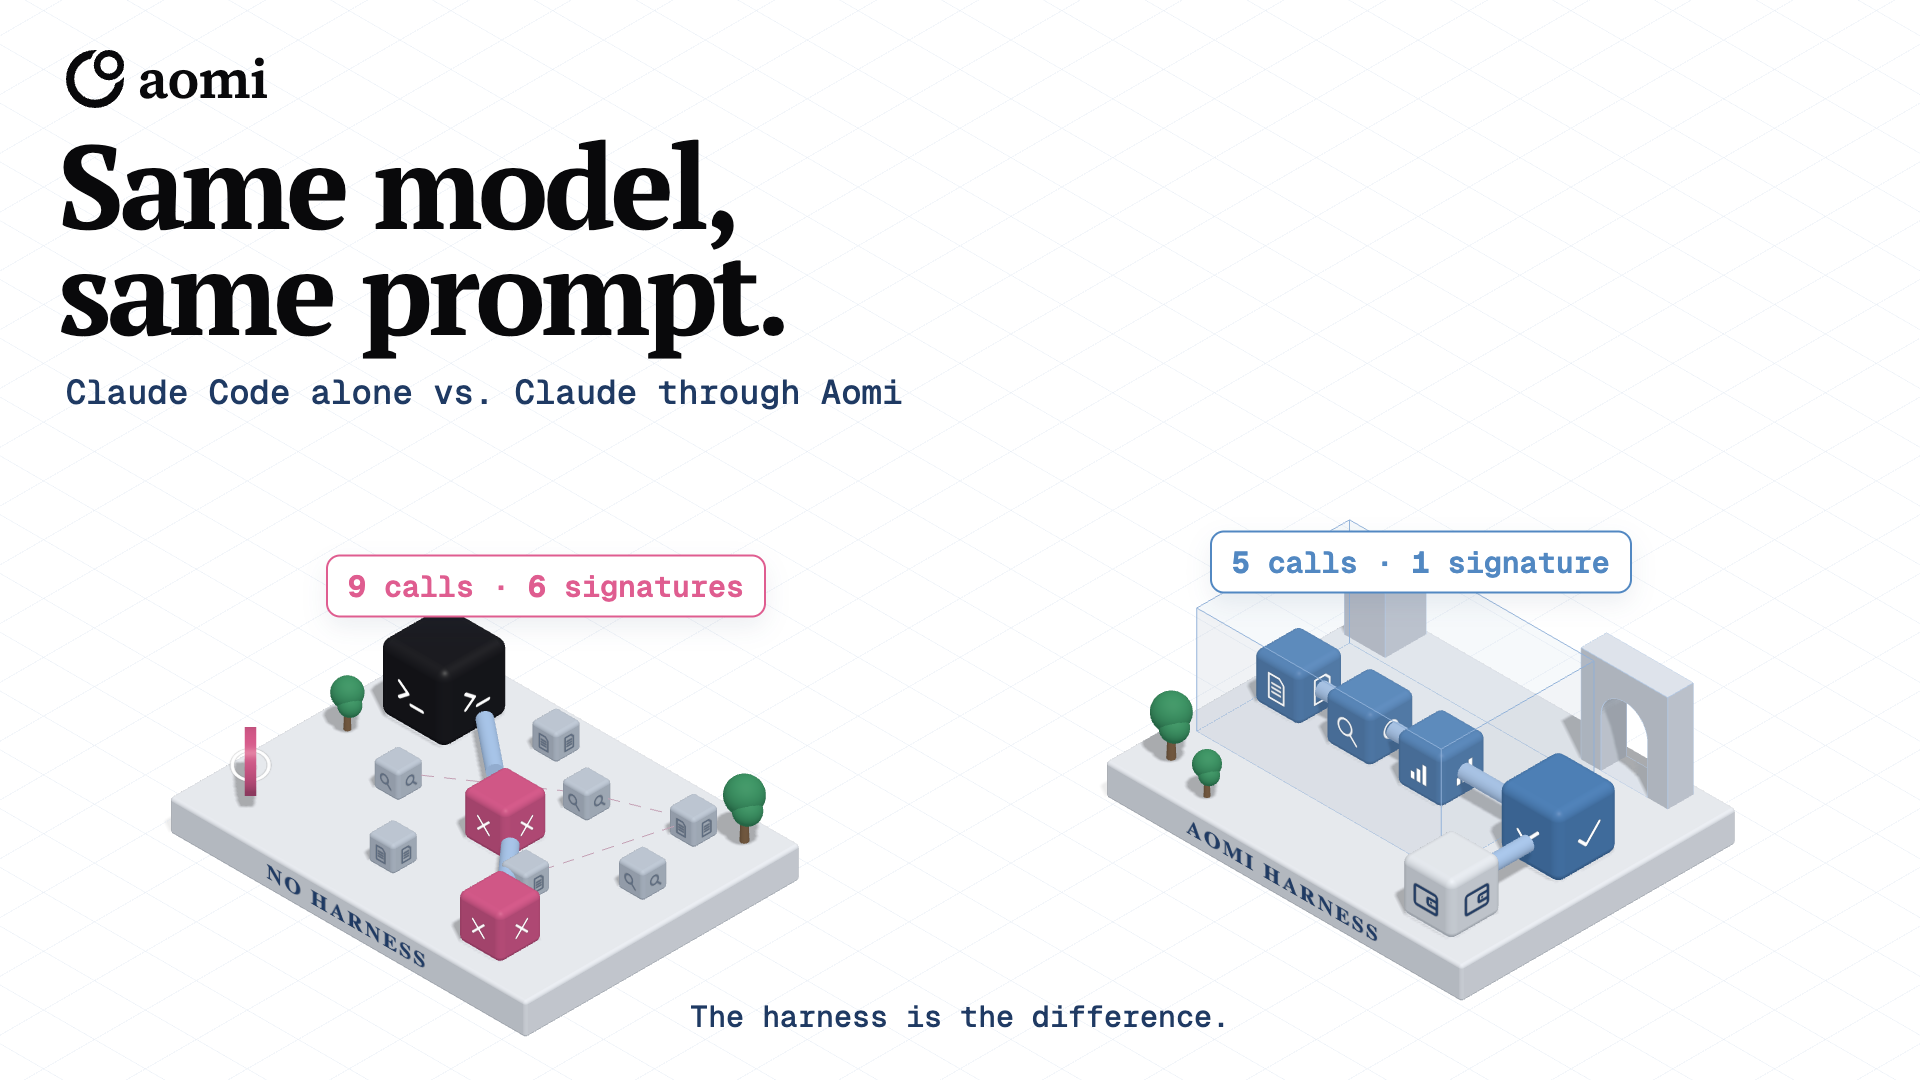
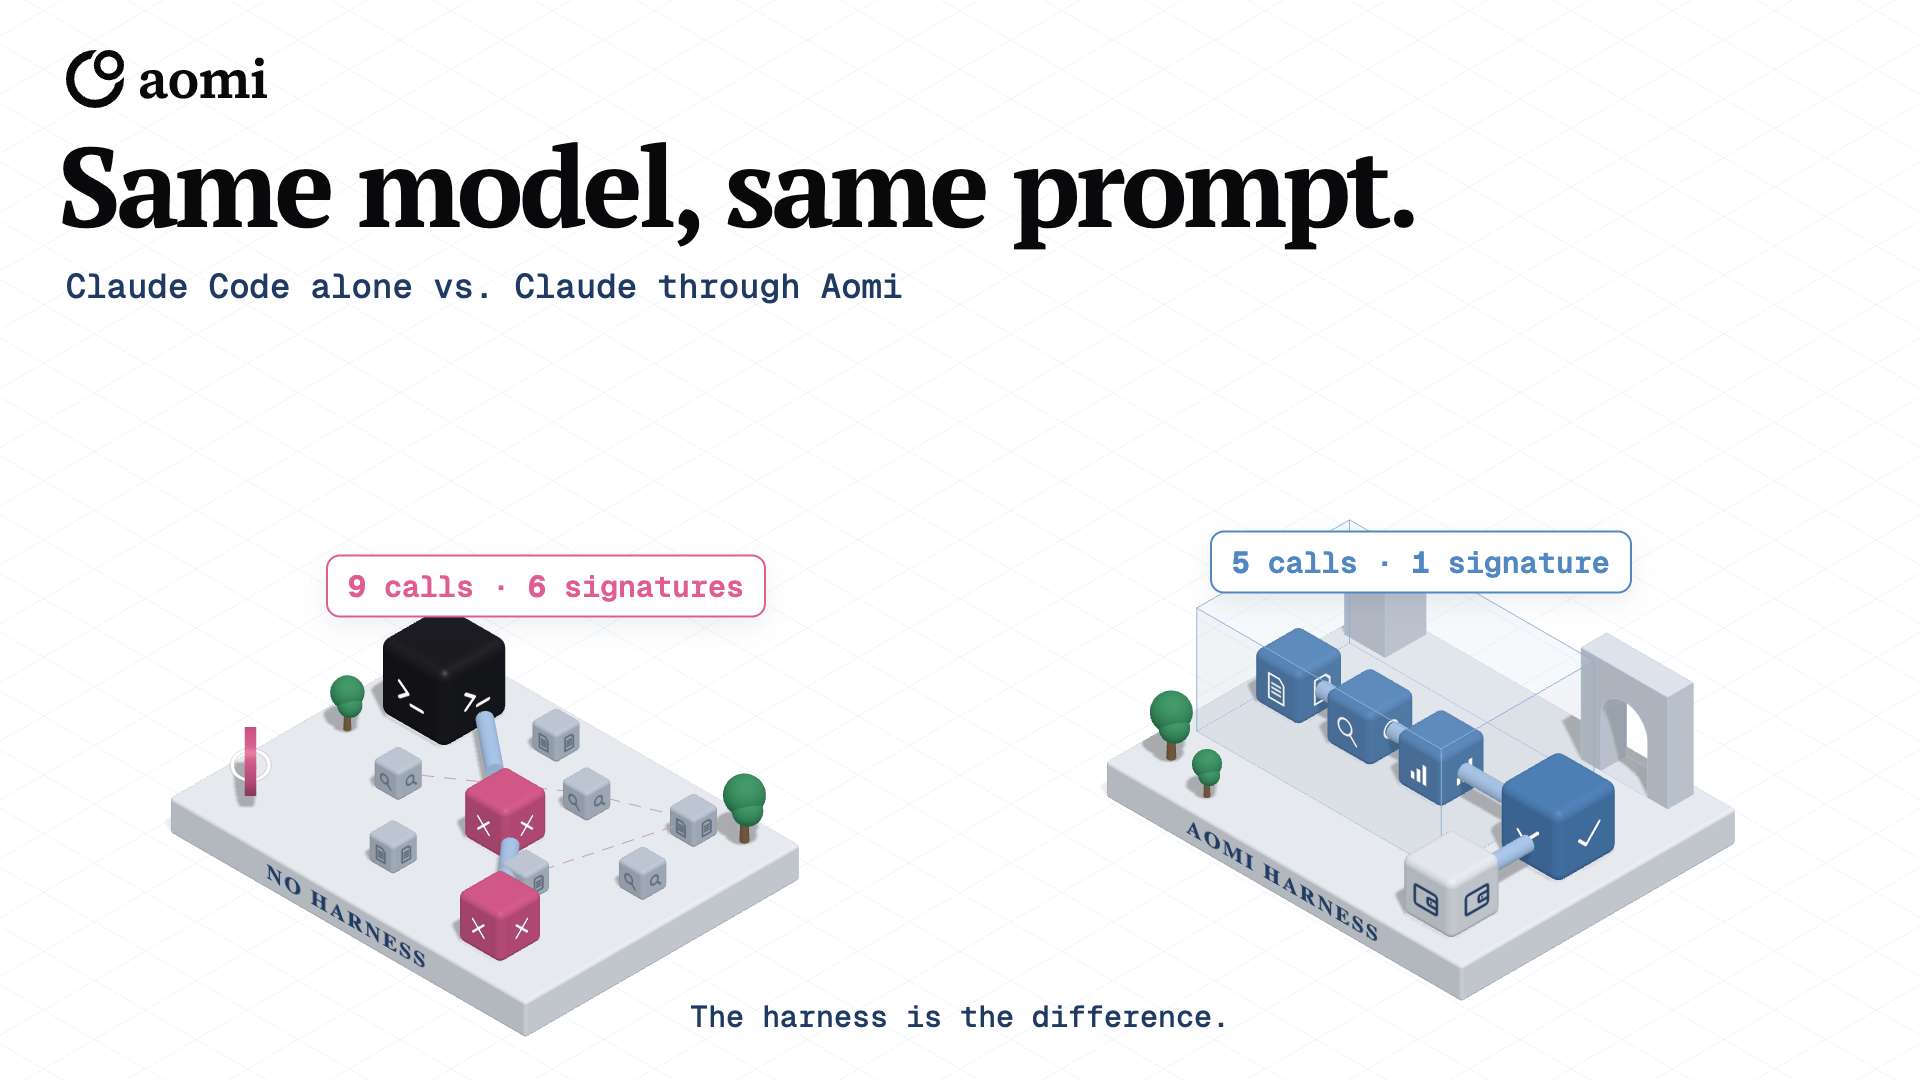
videos(intent-to-execution): one-line headlines on the social posts

Changed region(s): [[0.0312, 0.1222, 0.75, 0.3972]]

diff --git a/deliverables/videos/intent-to-execution-graphics/iso.html b/deliverables/videos/intent-to-execution-graphics/iso.html
@@ -17,7 +17,7 @@ html,body{margin:0;background:#fff}
 #gl,#ov{position:absolute;inset:0} #ov{pointer-events:none}
 .logo{position:absolute;left:66px;top:50px;display:flex;align-items:center;gap:14px}
 .logo svg{width:58px;height:58px} .logo span{font:600 54px/1 'Source Serif 4',serif;letter-spacing:-.01em;color:var(--ink)}
-h1{position:absolute;left:58px;top:132px;margin:0;font:700 118px/.9 'PT Serif',serif;letter-spacing:-.035em;color:var(--ink)}
+h1{position:absolute;left:58px;top:132px;margin:0;white-space:nowrap;font:700 112px/.95 'PT Serif',serif;letter-spacing:-.035em;color:var(--ink)}
 .sub{position:absolute;left:66px;font:500 34px 'Geist Mono',monospace;color:var(--navy)}
 .foot{position:absolute;left:0;right:0;bottom:44px;text-align:center;font:500 30px 'Geist Mono',monospace;color:var(--navy)}
 .tag{position:absolute;left:0;top:0;transform:translate(-50%,-50%);white-space:nowrap;font:600 30px 'Geist Mono',monospace;background:#fff;border:2.5px solid var(--navy);color:var(--navy);border-radius:14px;padding:10px 20px;box-shadow:0 10px 24px rgba(31,58,99,.08)}
@@ -128,7 +128,7 @@ function copy(h1, sub, foot) { document.querySelector('h1').innerHTML = h1; cons
 const S = .62; // slab height: things stand on top of it
 const POSTS = {
   1() { // same model, same prompt: no harness vs. the Aomi harness
-    copy('Same model,<br>same prompt.', 'Claude Code alone vs. Claude through Aomi', 'The harness is the difference.');
+    copy('Same model, same prompt.', 'Claude Code alone vs. Claude through Aomi', 'The harness is the difference.');
     const L = at(-6.6, -4.4), R = at(6.4, -3.9);
     slab(L, 7, 5.4, 'NO HARNESS');
     cube(off(L, -2.2, S, -1.4), { s: 1.3, c: C.term, icon: 'term' });
@@ -146,7 +146,7 @@ const POSTS = {
     tag(off(R, 0, 4.4, 0), '<b>5</b> calls · <b>1</b> signature', 'sky');
   },
   2() { // why a harness: three pillars on three plinths, in a row across the frame
-    copy('Why a<br>harness.', 'Performance · token efficiency · security', 'Frontier models can transact alone. With a harness they work better.');
+    copy('Why a harness.', 'Performance · token efficiency · security', 'Frontier models can transact alone. With a harness they work better.');
     [[-4.4, 'PERFORMANCE', 'bolt', C.sky, '9 → 5', 'calls', 'sky'], [1.9, 'TOKENS', 'coins', C.grn, '12 → 1', 'reads', 'grn'], [8.2, 'SECURITY', 'shield', C.sky, '0 → 2', 'simulations', 'sky']].forEach(([sx, lab, ic, c, n, u, k], i) => {
       const P = at(sx, -4.3); slab(P, 3.6, 3.6, lab); cube(off(P, 0, S, 0), { s: 1.9, c, icon: ic });
       tag(off(P, 0, 4.4, 0), `<b style="font-size:44px">${n}</b> ${u}`, k);
@@ -154,7 +154,7 @@ const POSTS = {
     tree(at(-9.5, -5.2), 1.1);
   },
   3() { // a dozen calls, one function
-    copy('A dozen calls,<br>one function.', 'Chain and wallet state, read deterministically', 'What Claude searched for, Aomi already knows.');
+    copy('A dozen calls, one function.', 'Chain and wallet state, read deterministically', 'What Claude searched for, Aomi already knows.');
     const Sc = at(-8.2, -4.6), G = at(-.4, -4.1), K = at(7.6, -4.3);
     const pts = [[-2.4, -1.6], [-1.4, -2.5], [-.3, -1.9], [-2.7, -.3], [-1.7, .3], [-.6, -.7], [.4, .5], [-2.4, 1.5], [-1.3, 2.0], [-.2, 1.6], [.9, -1.5], [1.1, 2.1]];
     pts.forEach(([x, z], i) => cube(off(Sc, x, 0, z), { s: .5, c: C.grey, icon: i % 3 ? 'search' : 'doc', ink: '#5b6b82', y: (i % 4) * .22 }));
@@ -169,7 +169,7 @@ const POSTS = {
     tree(off(K, 1.7, S, -1.4), .9); tree(off(G, 1.5, S, 1.4), .7);
   },
   4() { // fail on a fork, not onchain
-    copy('Fail on a fork,<br>not onchain.', 'Reverts go back to the model. Only green runs commit.', 'Same idea as CI for coding agents.');
+    copy('Fail on a fork, not onchain.', 'Reverts go back to the model. Only green runs commit.', 'Same idea as CI for coding agents.');
     const M = at(-10.2, -3.9), F = at(-1.6, -3.7), K = at(8.9, -3.2);
     slab(M, 2.6, 2.6, 'MODEL'); cube(off(M, 0, S, 0), { s: 1.4, c: C.white, icon: 'spark', ink: '#1f3a63' });
     slab(F, 7.6, 5.0, 'FORK OF LIVE STATE'); glass(off(F, 0, S, 0), 7.0, 2.3, 4.4);
@@ -185,7 +185,7 @@ const POSTS = {
     receipt(off(K, 1.2, 4.0, -.4), false); tree(off(K, 1.5, S, 1.3), .9);
   },
   5() { // six steps, one signature
-    copy('Six steps,<br>one signature.', 'Account abstraction compresses the flow', 'The key stays in your wallet.');
+    copy('Six steps, one signature.', 'Account abstraction compresses the flow', 'The key stays in your wallet.');
     const E = at(-.9, -1.9), Sl = at(-3.6, -3.45), Wt = at(8.6, -3.3);
     slab(E, 8.6, 2.2, 'ETHEREUM', { lw: 3.6, lx: -2.4 }); slab(Sl, 8.6, 2.2, 'SOLANA', { ink: '#23805a', lw: 3.6, lx: -2.4 });
     pipe(off(E, -4.0, S + .35, 0), off(E, 4.0, S + .35, 0)); pipe(off(Sl, -4.0, S + .35, 0), off(Sl, 4.0, S + .35, 0), { c: 0xa8dcc0 });
